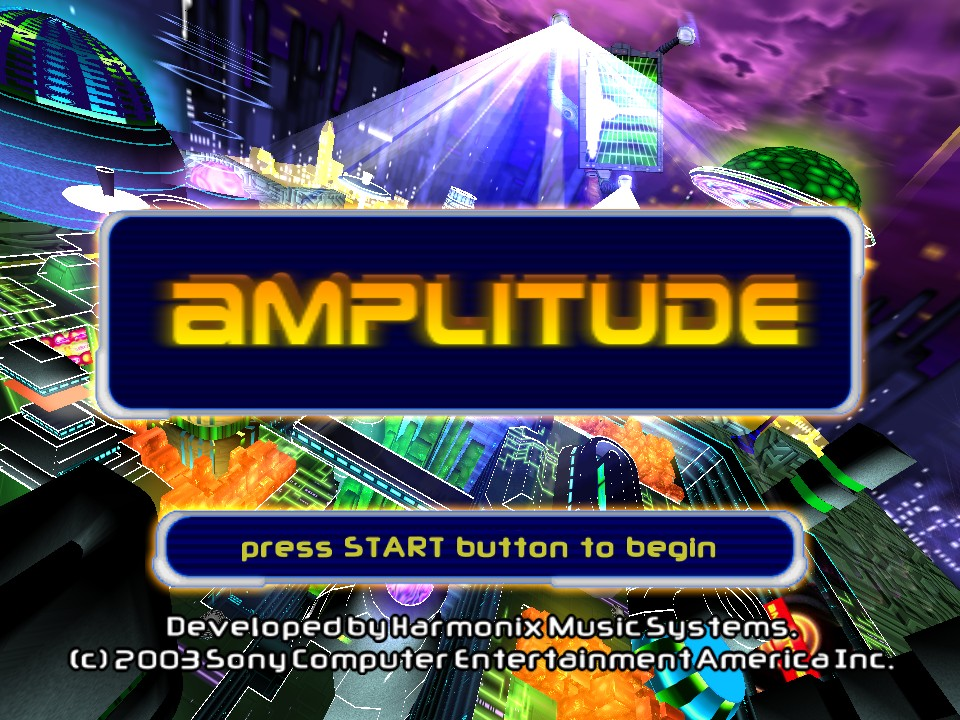
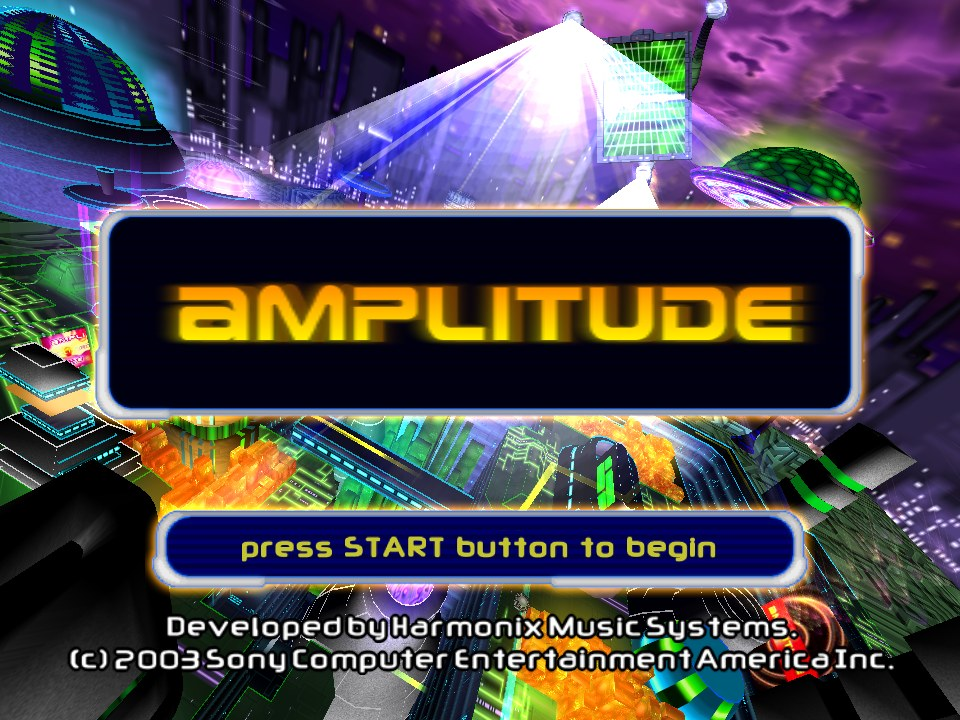
GS: the texture function is TEX0's for textured primitives only (the white blotches)
The title's and the menus' glows were solid white and the highlighted menu labels blank. The material took
TEX0's TFX for untextured primitives too, whose TEX0 is whatever texture was set last; here it was DECAL, and
the renderer's DECAL outputs the texel, 1.0 without a texture. Found by bisecting the untextured draws of one
flip down to a batch that came out white even drawn opaque.

README: the milestone done, the title, main menu and FreQ select screenshots retaken. RECOMP_NOTES: the cause;
the main menu's black wedge left (opaque black by the GS's rules, probably the scene's own).

diff --git a/runtime/amp_gs_state.cpp b/runtime/amp_gs_state.cpp
@@ -740,7 +740,10 @@ namespace amp::gs
             }
             using TF = Material::TextureFunction;
             static const TF tfx[4] = {TF::Modulate, TF::Decal, TF::Highlight, TF::Highlight2};
-            m.textureFunction = tfx[(c.tex0 >> 35) & 3u];
+            // TEX0's TFX only for a textured primitive: an untextured one leaves TEX0 as the last texture set it, and
+            // its DECAL (1) made the renderer output the texel, 1.0 without a texture: solid white (the title's and the
+            // menus' glows drawn as white blotches and cones, the highlighted labels).
+            m.textureFunction = m.textured ? tfx[(c.tex0 >> 35) & 3u] : TF::Modulate;
             m.textureAlpha = (c.tex0 >> 34) & 1u;
             m.clampU = (c.clamp & 3u) == 1u;
             m.clampV = ((c.clamp >> 2) & 3u) == 1u;

diff --git a/docs/RECOMP_NOTES.md b/docs/RECOMP_NOTES.md
@@ -188,13 +188,13 @@ interpreter runs them all).
 - **GS colour and fog.** An untextured primitive's colour is now used as the GS uses it (0-255, `Material::directColour`;
   the renderer doubled it as it does a texture's modulation), and PRIM.FGE fogs it toward FOGCOL by the vertices' F
   (`Material::fog`; the translator had left fog out).
-- **The white blotches (open).** Main menu, frame 6600 of the README's pad script: a hard-edged white shape top left,
-  a black wedge, a solid white light cone. Captures are deterministic. Skipping every untextured primitive removes
-  them all; bisecting the untextured draws of a flip points at one draw of flip 3713 (`targetFor` call 5): a small
-  orange additive triangle (PRIM 0x63, ALPHA 0x68, ZTST GREATER) that fails its depth test against the sky, and that
-  changes nothing when drawn opaque. Not the backdrop, not the previous-frame afterimage, not batch merging, not the
-  textures (the cloud and sparkle textures under it decode right). Next: dump the renderer's batches of that flip
-  (material and vertex range) with and without that draw.
+- **The white blotches.** The title's and the menus' glows (a beacon's flare, light shapes) were solid white and the
+  highlighted menu labels blank. Bisecting the untextured draws of one flip (a capture is deterministic) found one
+  call whose batch, drawn even opaque, came out white: the material took TEX0's TFX for an untextured primitive, whose
+  TEX0 is whatever texture was set last, here DECAL, and the renderer's DECAL outputs the texel: 1.0 without a texture.
+  The texture function is now TEX0's for textured primitives only. Left: a black wedge top left of the main menu,
+  large triangles that by the GS's rules are opaque black (a white-to-grey palette, all alpha 0x80, black vertices);
+  probably the scene's own dark structure.
 - **Save states.** A state held the engine's parts and the sound modules but not the port's: its DMA register file
   and MFIFO ring (set once at boot), VIF and the VUs (the microcode is sent once at boot), the GS registers and local
   memory (textures uploaded once), the IPU streams. A loaded state ran on into a renderer that never drained its ring:
@@ -283,13 +283,13 @@ The song plays from about frame 10,800 to 22,800.
 
 The game boots through the logos and the intro movie (with its music) to the title screen, the menus, the FreQmaker,
 the arena and song selection, and **a whole song, scored, to the results screen**, at 60 frames a second with the VU1
-programs compiled. Seen so far: white blotches on the title's scene and over highlighted menu labels; the title screen
+programs compiled. Seen so far: the title screen
 is silent after the intro, and the intro's last 27 seconds or so are black while its music plays on (both as before
 the stream fix; not compared with the console yet).
 
 ## Next steps
 
-1. The white blotches; the title's sound against the console.
+1. The title's sound against the console; the main menu's black wedge against the console.
 2. Timing: input and sound against the beat, compared with the console.
 3. Native draws: the renderer answered at its own functions instead of through VIF1 / VU1 / GIF.
 4. Upstream to BozoEngine: the IRX translator fix and the mixer's output IRQ are merged; still a native `sceIoctl`

diff --git a/README.md b/README.md
@@ -48,7 +48,7 @@ with its sound, the track's surface and the HUD's monitor drawn by render-to-tex
 | Intro movie sound, the song select's preview loops | ✅ |
 | FreQs drawn whole (the game's VU0 microprograms) | ✅ |
 | Full speed: the VU1 programs compiled to C++ (60 frames a second with room to spare) | ✅ |
-| White blotches on the title and on highlighted labels | 🔧 |
+| The title's and menus' glows and highlighted labels (were white blotches) | ✅ |
 | Input and sound timing checked against the console | ⏳ |
 | Save states (in the window: save and load slots) | ✅ |
 | Memory-card saves, multitap (four players) | ⏳ |
